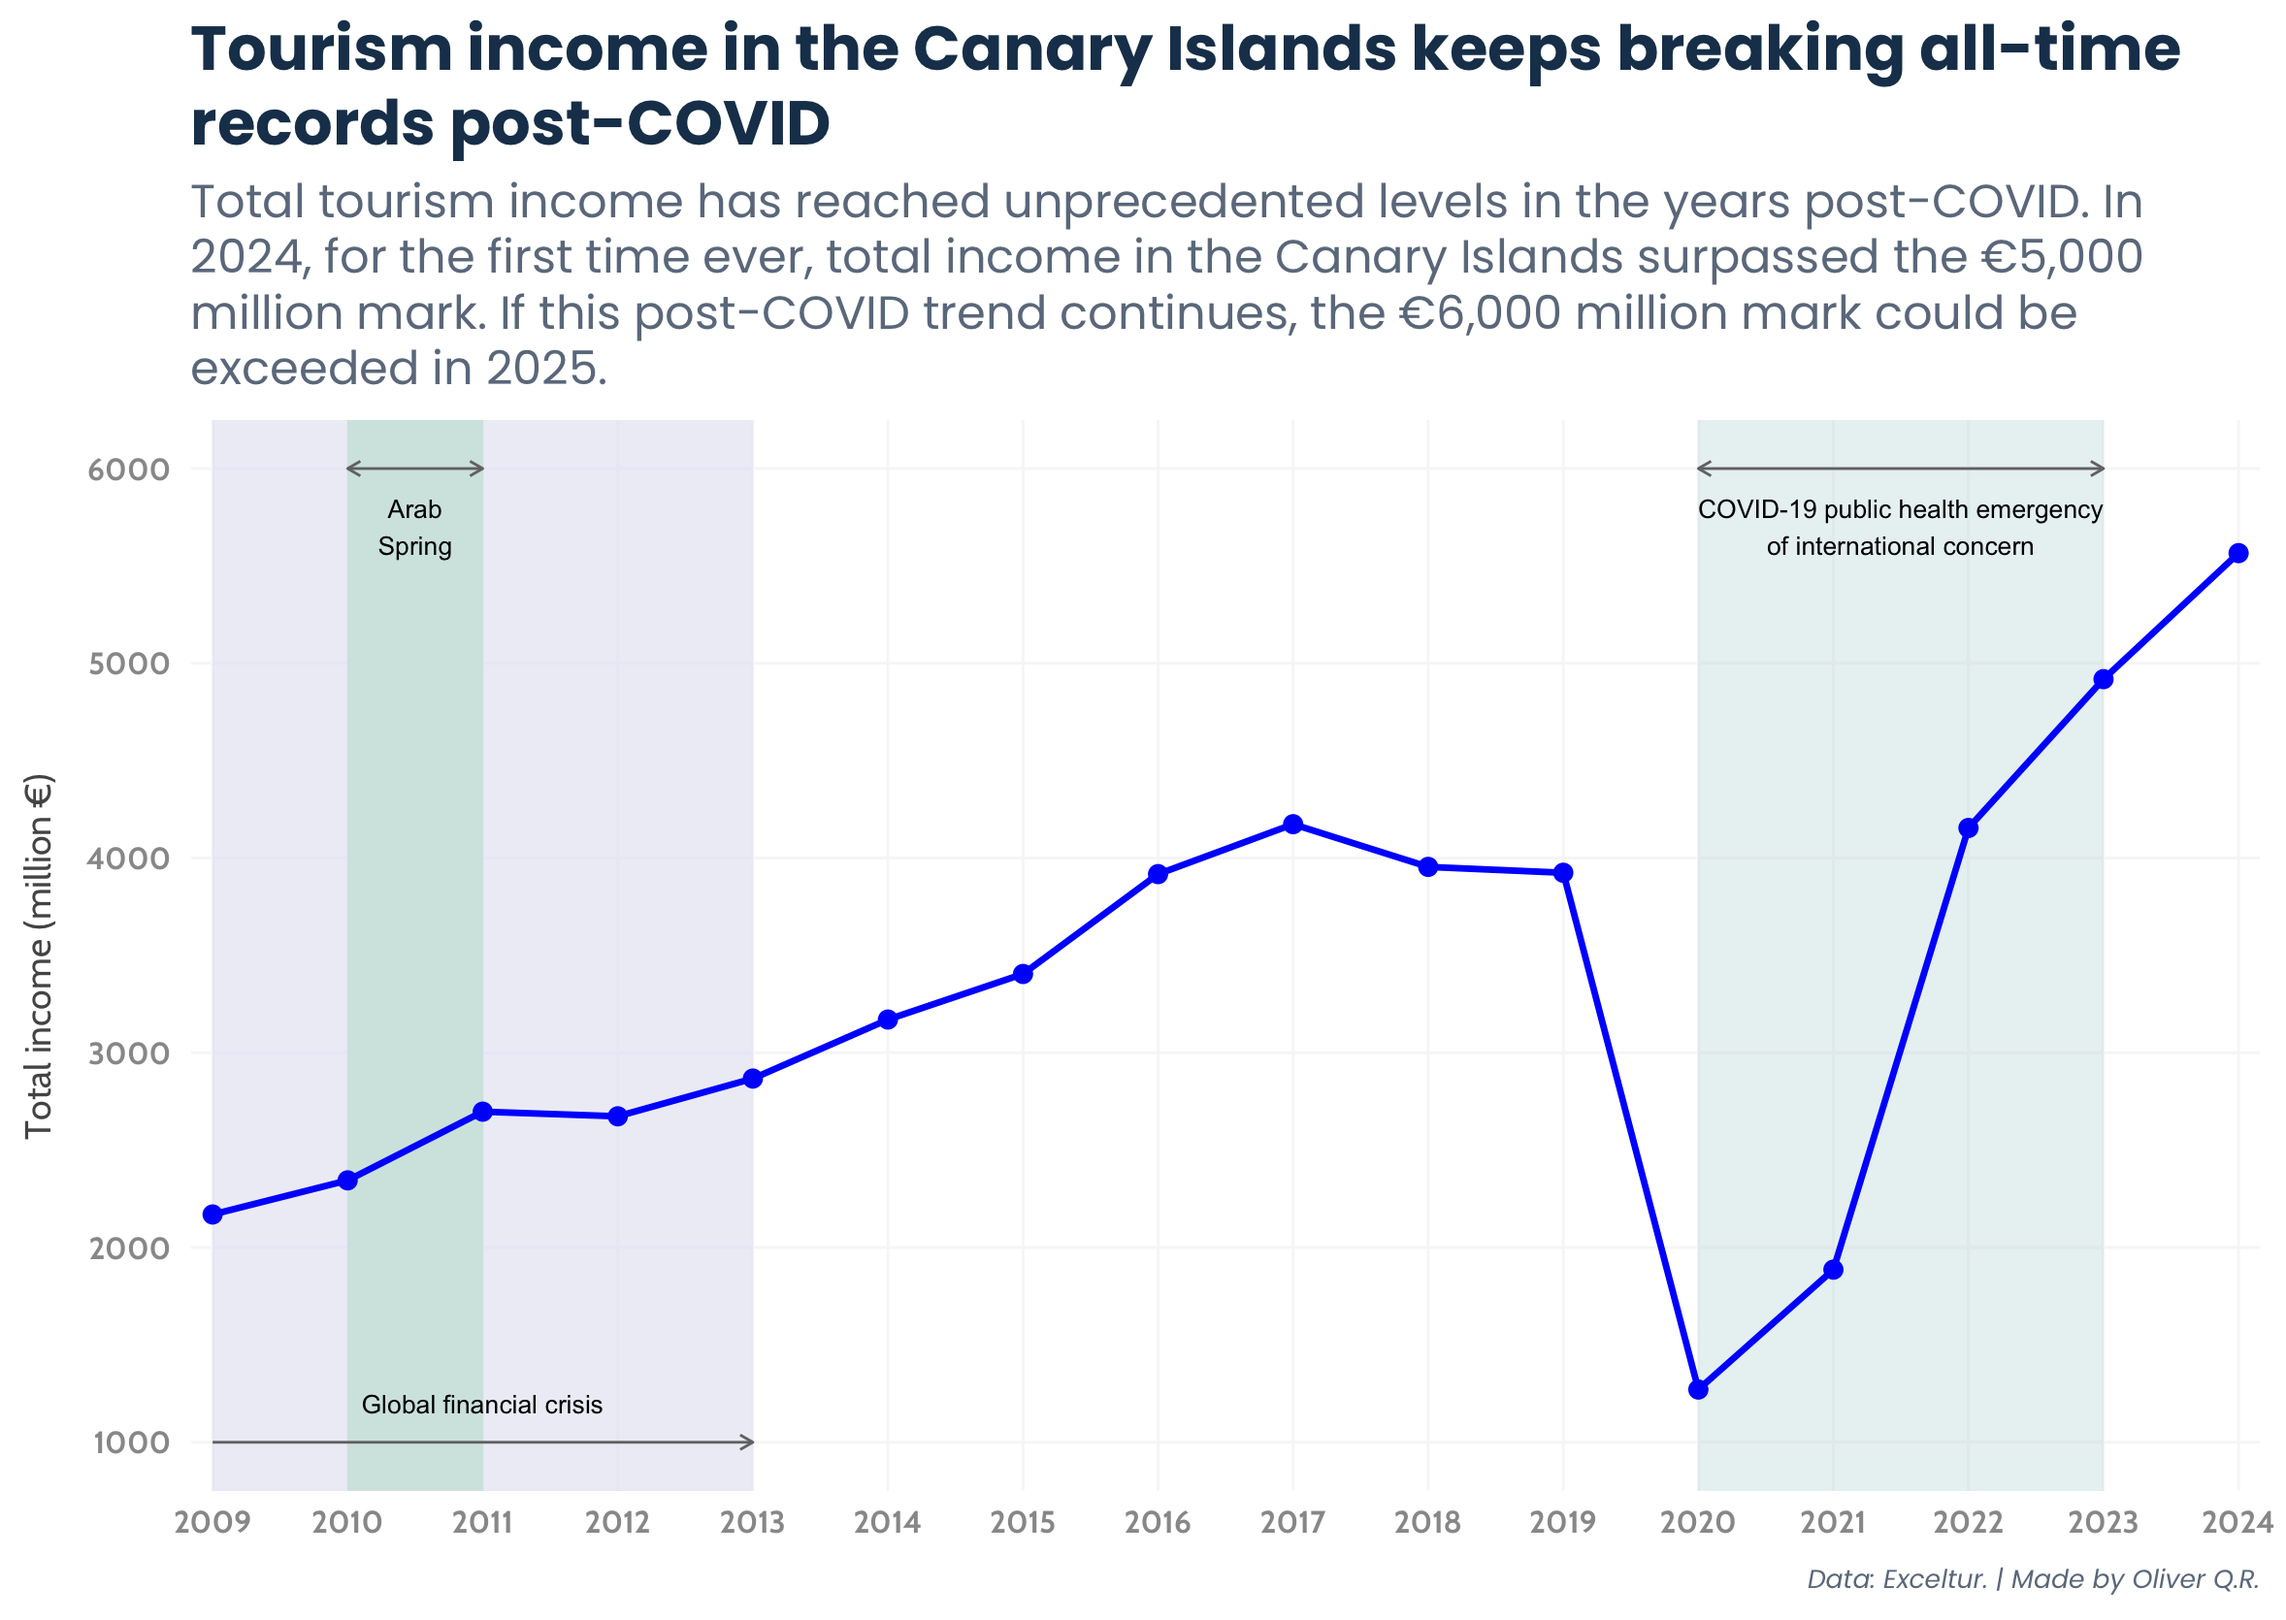
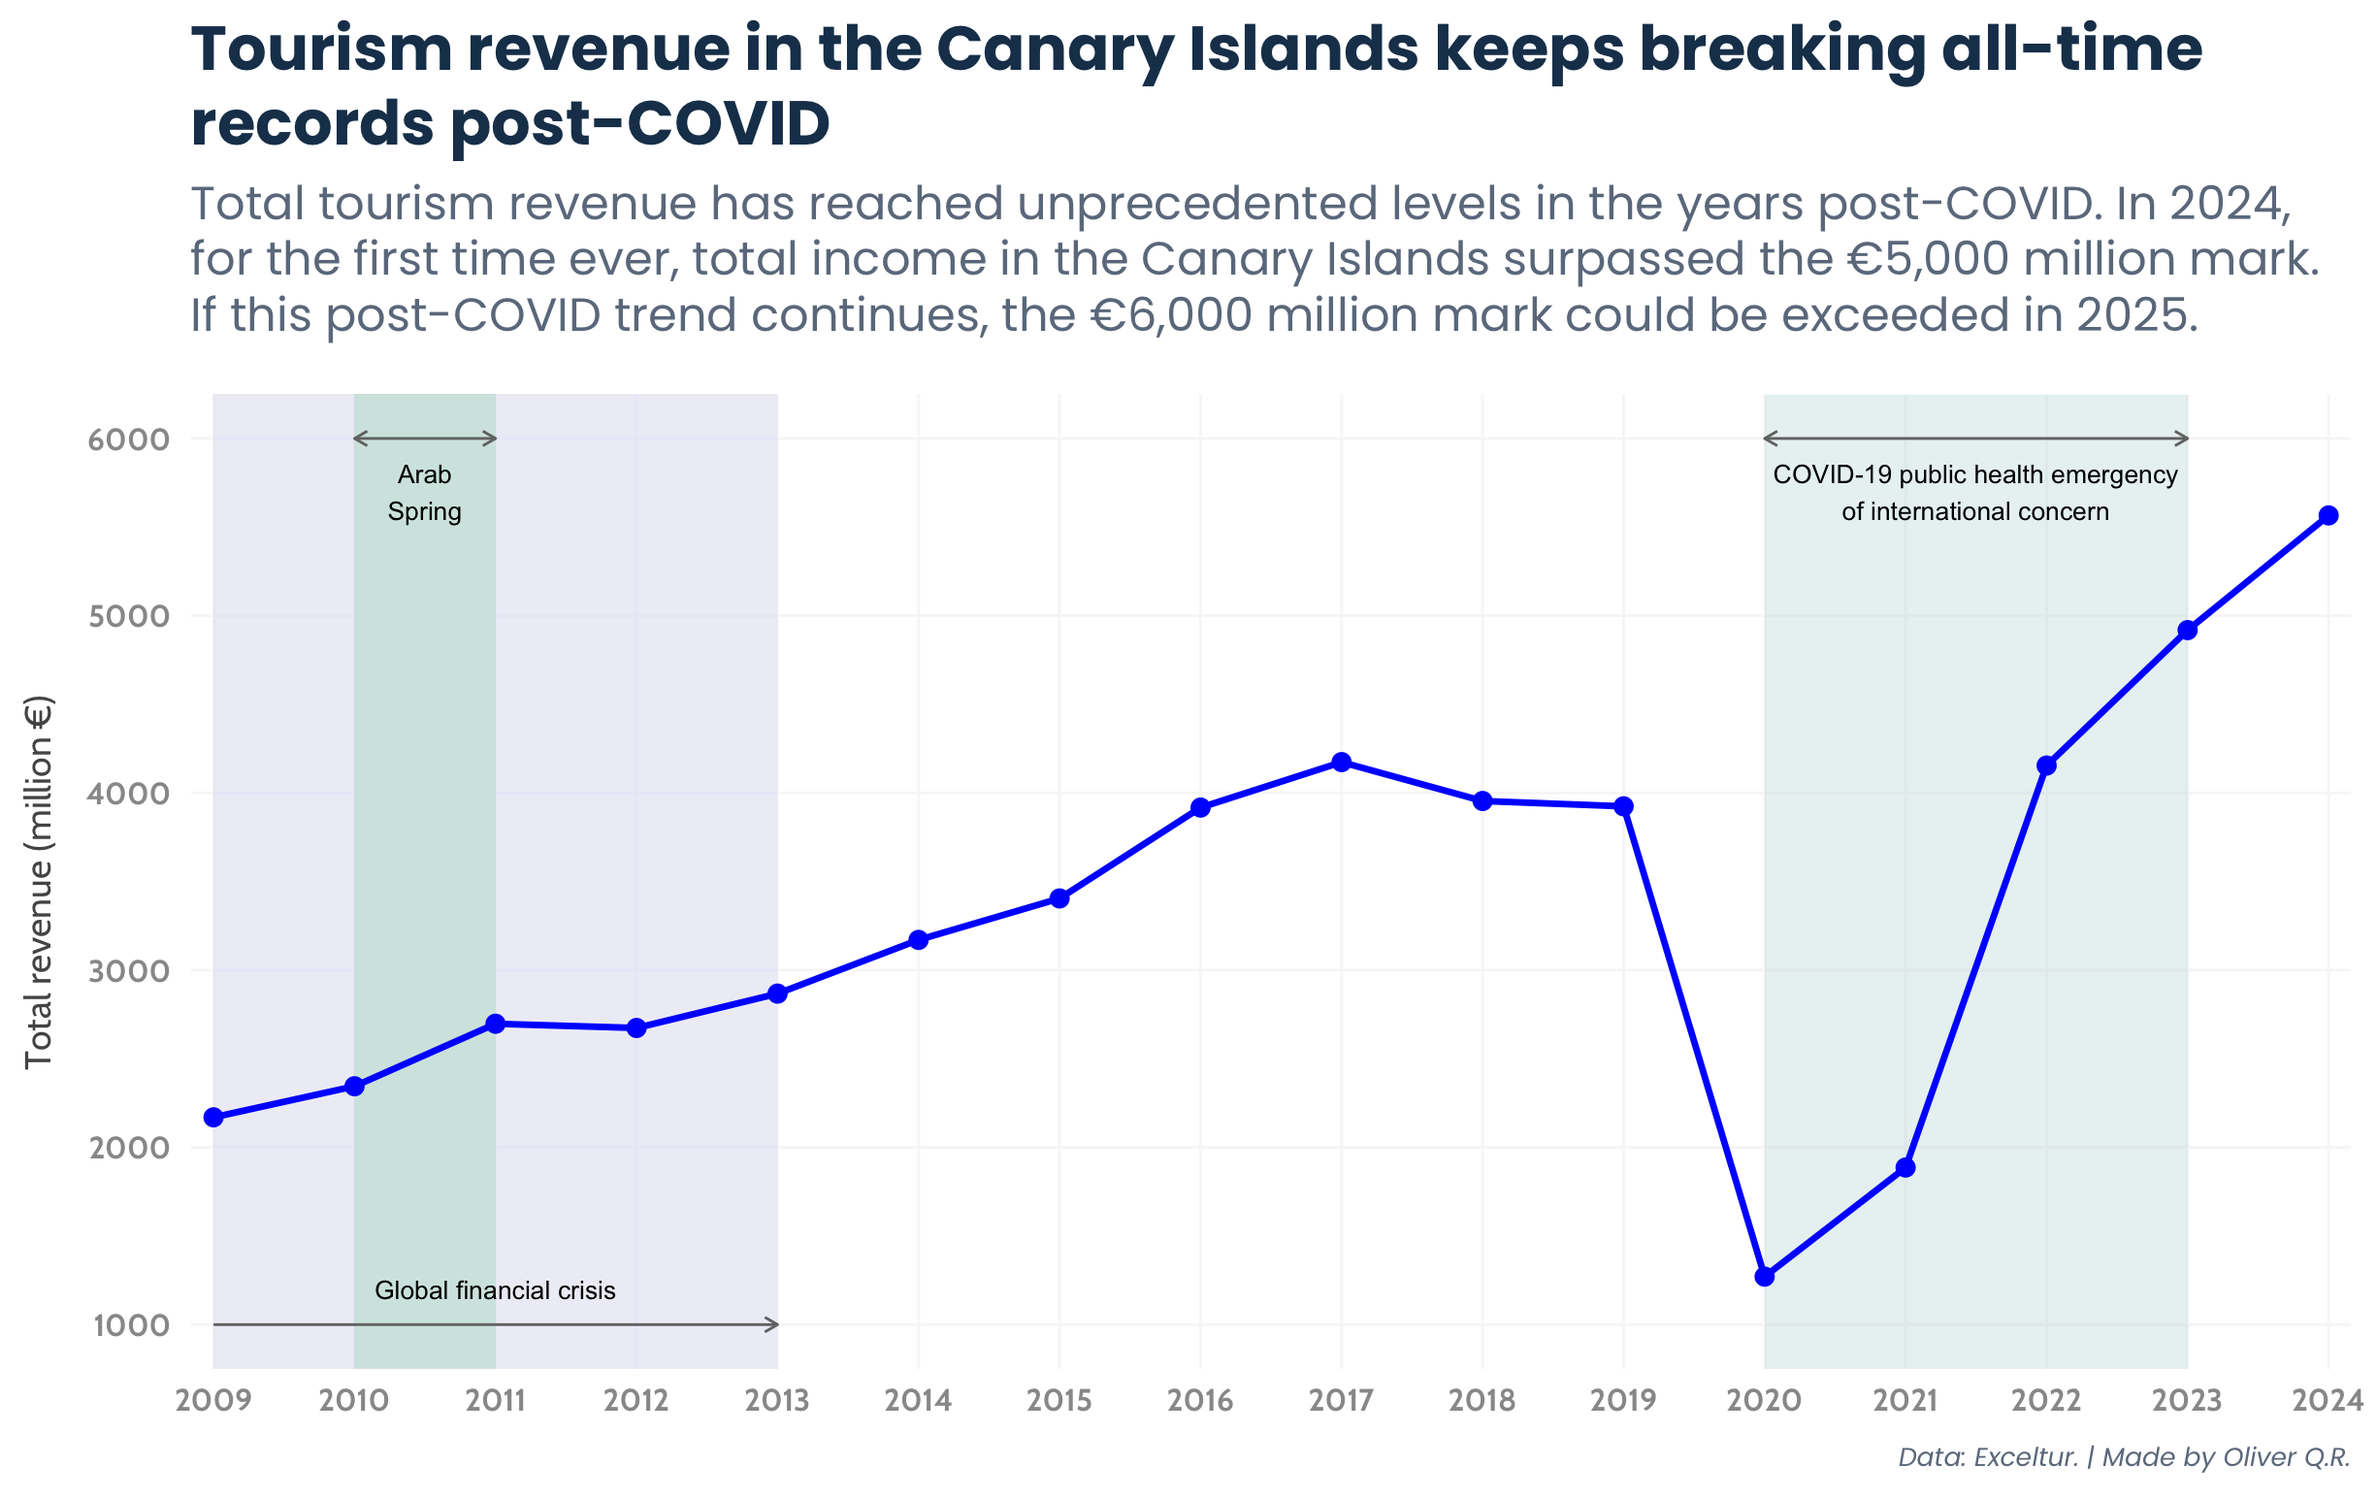
Minor fix

diff --git a/blog/tourism_canary_islands_part_1.html b/blog/tourism_canary_islands_part_1.html
@@ -231,28 +231,28 @@
                     <div class="parallax-wrapper">
                         <div class="parallax parallax-img6">
                             <div class="parallax-content">
-                                <h3>What's the total income of the tourist sector?</h3>
+                                <h3>What's the total revenue of the tourist sector?</h3>
                             </div>
                         </div>
                     </div>
                     <div class="scene">
                         <figure class="entry-figure">
-                            <img class="entry-graph-img" src="/blog/img/tourism_can_img/fig07.png" alt="Yearly income of the tourist sector in the Canary Islands">
+                            <img class="entry-graph-img" src="/blog/img/tourism_can_img/fig07.png" alt="Annual revenue of the tourist sector in the Canary Islands">
                             <figcaption class="figure-caption">
-                                <strong>Figure 7.</strong> Yearly income of the tourist sector in the Canary Islands.
+                                <strong>Figure 7.</strong> Annual revenue of the tourist sector in the Canary Islands.
                             </figcaption>
                         </figure>
                         <div class="text">
                             <p class="entry-paragraph">
-                                Over the period between 2009 and 2024 there is a clear long-term upward trend in total income, 
-                                despite some year-to-year variation (figure 7). Between 2009 until 2017, annual income grew 
+                                Over the period between 2009 and 2024 there is a clear long-term upward trend in total revenue, 
+                                despite some year-to-year variation (figure 7). Between 2009 until 2017, annual revenue grew 
                                 steadily at rates between 6.6 and 15% every year, with the exception of 2012. This was followed 
                                 by a slight drop in 2018 and virtually no change in 2019.
                             </p>
                             <p class="entry-paragraph">
                                 The impact of COVID-19 in 2020 caused a sharp drop in income, but the recovery from 2021 onwards 
                                 was quick and consistent. In fact, the period 2022-2024 have seen unprecedented figures, with 
-                                the tourist sector breaking income records each year. By 2024, the total income had increased 
+                                the tourist sector breaking revenue records each year. By 2024, the total revenue had increased 
                                 by 41.8% compared to pre-pandemic levels (2019), and by 157% compared to 2009.
                             </p>
                         </div>
